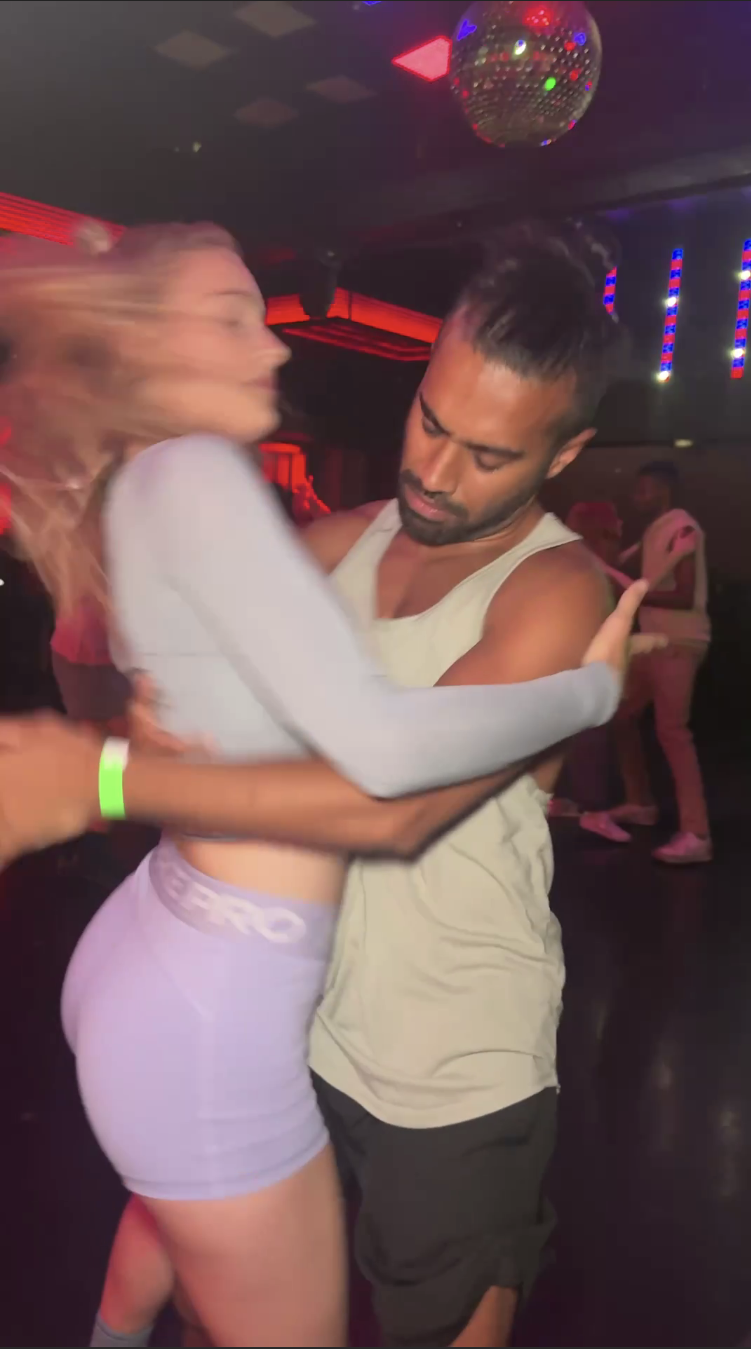
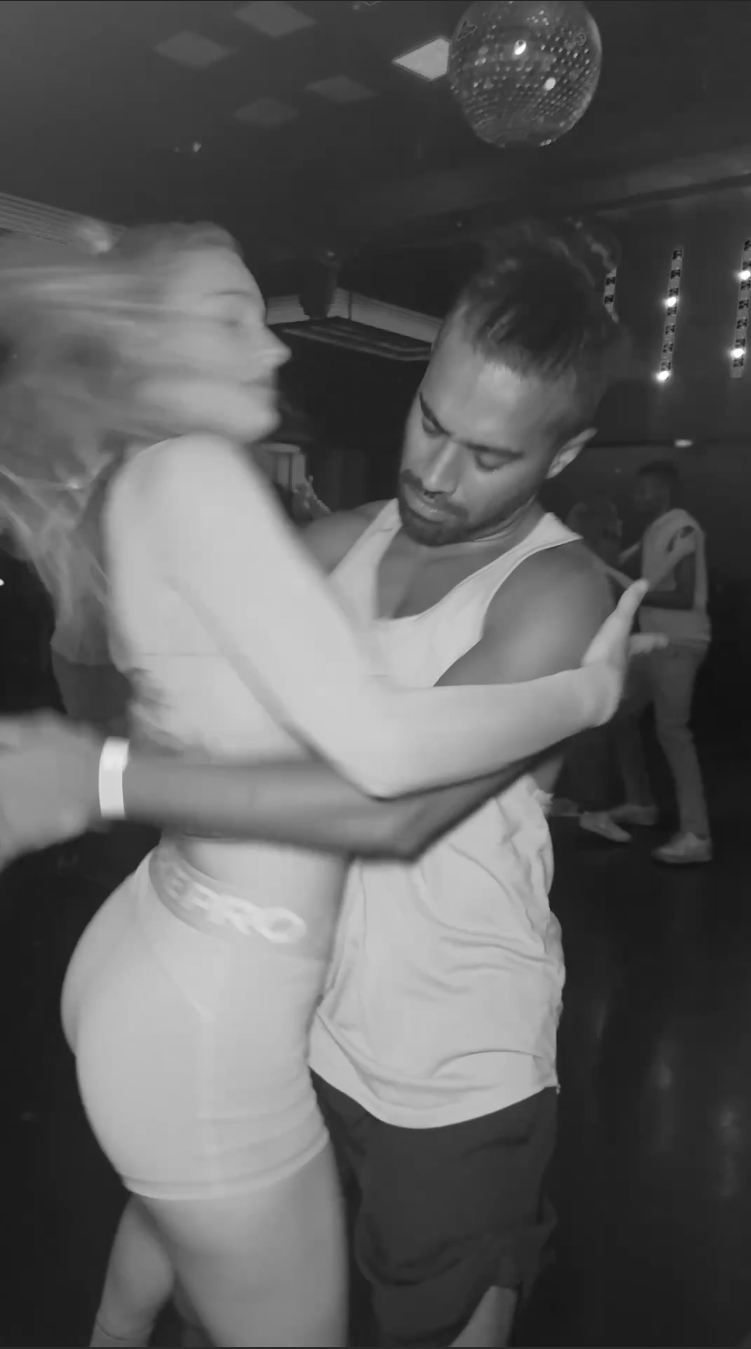
Keep derogue.art black and white
Replace the live YouTube and Instagram embeds with black-and-white covers that load a player only after a click, convert the Keystone Crescent photos to grayscale, and drop the wine theme so the page can only use ink or night.

diff --git a/index.html b/index.html
@@ -27,7 +27,7 @@
 <link rel="preconnect" href="https://fonts.gstatic.com" crossorigin>
 <link rel="stylesheet" href="https://fonts.googleapis.com/css2?family=Fraunces:ital,opsz,wght@0,9..144,200;0,9..144,300;0,9..144,400;0,9..144,900;1,9..144,300&family=Hanken+Grotesk:wght@400;500;600&family=IBM+Plex+Mono:wght@400;500&display=swap">
 <style>
-  /* Theme tokens. Ink = the logo as drawn. Night = inverted. Saffron = robe & marigold. */
+  /* Theme tokens. Ink = paper and black. Night = the same pair, inverted. Colour themes are not offered. */
   :root {
     --paper: #fbfaf7;
     --paper-2: #f1efe9;
@@ -59,11 +59,6 @@
     --paper: #fbfaf7; --paper-2: #f1efe9; --ink: #111110; --ink-soft: #55534e;
     --rule: #d9d6cd; --logo: #111110; --accent: #111110; --on-accent: #fbfaf7;
     color-scheme: light;
-  }
-  :root[data-look="saffron"] {
-    --paper: #4a1512; --paper-2: #5b1d18; --ink: #f6e7cf; --ink-soft: #d9b98f;
-    --rule: #7a3226; --logo: #f2a33a; --accent: #f2a33a; --on-accent: #3a100d;
-    color-scheme: dark;
   }
 
   *, *::before, *::after { box-sizing: border-box; }
@@ -225,6 +220,7 @@
   .venue-shot img {
     position: absolute; inset: 0; width: 100%; height: 100%;
     object-fit: cover; object-position: center 32%; display: block;
+    filter: grayscale(1);
   }
   .venue-shot-lead img { object-position: center 46%; }
   .venue-shot:nth-child(3) img { object-position: center 22%; }
@@ -306,6 +302,16 @@
     width: 100%; height: 100%;
     border: 0; display: block;
   }
+  .watch-poster {
+    position: absolute; inset: 0; display: block;
+    background: #111110; color: inherit; text-decoration: none;
+  }
+  .watch-poster img {
+    width: 100%; height: 100%; object-fit: cover; display: block;
+    filter: grayscale(1);
+    transition: transform .4s ease, filter .4s ease;
+  }
+  .watch-poster:hover img { transform: scale(1.03); filter: grayscale(1) brightness(.9); }
   .watch-feature figcaption {
     margin-top: 14px;
     display: grid; gap: 2px;
@@ -317,8 +323,9 @@
     background: #111110; text-decoration: none;
   }
   .video-card.watch-earlier { margin: 0; max-width: none; width: 100%; }
-  .video-card img { width: 100%; height: 100%; object-fit: cover; display: block; transition: transform .4s ease, filter .4s ease; }
-  .video-card:hover img { transform: scale(1.03); filter: brightness(.9); }
+  .video-card img { width: 100%; height: 100%; object-fit: cover; display: block; filter: grayscale(1); transition: transform .4s ease, filter .4s ease; }
+  .video-card:hover img { transform: scale(1.03); filter: grayscale(1) brightness(.9); }
+  .ig-poster { max-width: none; width: 100%; margin: 0; }
   .vc-play {
     position: absolute; inset: 0; display: grid; place-items: center;
     font-size: 1.4rem; color: #fff; background: rgba(0,0,0,.28);
@@ -540,7 +547,7 @@
 
     <div class="venue-gallery">
       <figure class="venue-shot venue-shot-lead">
-        <img src="assets/venue/keystone-crescent-dancefloor.jpg" width="574" height="928" alt="The wooden dancefloor at Keystone Crescent, with coloured lights and a mirror along the wall" loading="lazy" decoding="async">
+        <img src="assets/venue/keystone-crescent-dancefloor.jpg" width="574" height="928" alt="The wooden dancefloor at Keystone Crescent, with lights and a mirror along the wall" loading="lazy" decoding="async">
         <figcaption>The dancefloor</figcaption>
       </figure>
       <figure class="venue-shot">
@@ -577,9 +584,11 @@
         </div>
       </div>
       <div class="ig-embed">
-        <blockquote class="instagram-media" data-instgrm-permalink="https://www.instagram.com/reel/Da-enwpNs4G/" data-instgrm-version="14">
-          <a href="https://www.instagram.com/reel/Da-enwpNs4G/" target="_blank" rel="noopener">How to get to Keystone Crescent &mdash; directions on Instagram</a>
-        </blockquote>
+        <a class="video-card ig-poster" id="ig-play" href="https://www.instagram.com/reel/Da-enwpNs4G/" target="_blank" rel="noopener" data-instagram-reel="https://www.instagram.com/reel/Da-enwpNs4G/">
+          <img src="assets/directions/instagram-directions-reel-bw.jpg" width="361" height="640" alt="Black and white cover for the Keystone Crescent directions reel" loading="lazy" decoding="async">
+          <span class="vc-play" aria-hidden="true">&#9658;</span>
+          <span class="vc-label">Directions</span>
+        </a>
       </div>
     </div>
   </section>
@@ -640,13 +649,10 @@
     <div class="watch-stage">
       <figure class="watch-feature">
         <div class="watch-frame">
-          <iframe
-            src="https://www.youtube.com/embed/if4Lgn1M6sE"
-            title="deRogue Dance workshops in London for lead-follow and connection"
-            allow="accelerometer; autoplay; clipboard-write; encrypted-media; gyroscope; picture-in-picture; web-share"
-            referrerpolicy="strict-origin-when-cross-origin"
-            allowfullscreen
-            loading="lazy"></iframe>
+          <a class="watch-poster" id="watch-play" href="https://www.youtube.com/shorts/if4Lgn1M6sE" target="_blank" rel="noopener" data-youtube-id="if4Lgn1M6sE" data-title="deRogue Dance workshops in London for lead-follow and connection">
+            <img src="assets/watch/connection-short-if4Lgn1M6sE-bw.jpg" width="1080" height="1920" alt="Black and white cover for the deRogue connection clip" loading="lazy" decoding="async">
+            <span class="vc-play" aria-hidden="true">&#9658;</span>
+          </a>
         </div>
         <figcaption>
           <span class="eyebrow">On the floor</span>
@@ -794,15 +800,66 @@
       toggle.setAttribute("aria-pressed", String(current() === "night"));
     }
     function apply(look, save) {
+      if (look !== "ink" && look !== "night") look = "ink";
       root.setAttribute("data-look", look);
       if (save) { try { localStorage.setItem("derogue-look", look); } catch (e) {} }
       paint();
     }
     var stored = null;
     try { stored = localStorage.getItem("derogue-look"); } catch (e) {}
+    if (stored !== "ink" && stored !== "night") {
+      stored = null;
+      try { localStorage.removeItem("derogue-look"); } catch (e) {}
+    }
     apply(stored || current(), false);
     toggle.addEventListener("click", function () {
       apply(current() === "night" ? "ink" : "night", true);
+    });
+
+    var watchPlay = document.getElementById("watch-play");
+    watchPlay.addEventListener("click", function (event) {
+      if (event.metaKey || event.ctrlKey || event.shiftKey || event.altKey || event.button !== 0) return;
+      var id = watchPlay.getAttribute("data-youtube-id");
+      if (!/^[A-Za-z0-9_-]{11}$/.test(id)) return;
+      event.preventDefault();
+      var frame = document.createElement("iframe");
+      frame.src = "https://www.youtube.com/embed/" + id + "?autoplay=1&rel=0&playsinline=1";
+      frame.title = watchPlay.getAttribute("data-title") || "deRogue video";
+      frame.setAttribute("allow", "accelerometer; autoplay; clipboard-write; encrypted-media; gyroscope; picture-in-picture; web-share");
+      frame.setAttribute("referrerpolicy", "strict-origin-when-cross-origin");
+      frame.allowFullscreen = true;
+      watchPlay.replaceWith(frame);
+    });
+
+    var igPlay = document.getElementById("ig-play");
+    igPlay.addEventListener("click", function (event) {
+      if (event.metaKey || event.ctrlKey || event.shiftKey || event.altKey || event.button !== 0) return;
+      var permalink = igPlay.getAttribute("data-instagram-reel");
+      if (!permalink) return;
+      event.preventDefault();
+      var quote = document.createElement("blockquote");
+      quote.className = "instagram-media";
+      quote.setAttribute("data-instgrm-permalink", permalink);
+      quote.setAttribute("data-instgrm-version", "14");
+      var fallback = document.createElement("a");
+      fallback.href = permalink;
+      fallback.target = "_blank";
+      fallback.rel = "noopener";
+      fallback.textContent = "How to get to Keystone Crescent — directions on Instagram";
+      quote.appendChild(fallback);
+      igPlay.replaceWith(quote);
+      function process() {
+        if (window.instgrm && window.instgrm.Embeds) window.instgrm.Embeds.process();
+      }
+      if (window.instgrm && window.instgrm.Embeds) {
+        process();
+        return;
+      }
+      var script = document.createElement("script");
+      script.async = true;
+      script.src = "https://www.instagram.com/embed.js";
+      script.onload = process;
+      document.body.appendChild(script);
     });
     try { window.matchMedia("(prefers-color-scheme: dark)").addEventListener("change", function () { if (!stored) paint(); }); } catch (e) {}
 
@@ -819,6 +876,5 @@
     });
   })();
 </script>
-<script async src="https://www.instagram.com/embed.js"></script>
 </body>
 </html>
